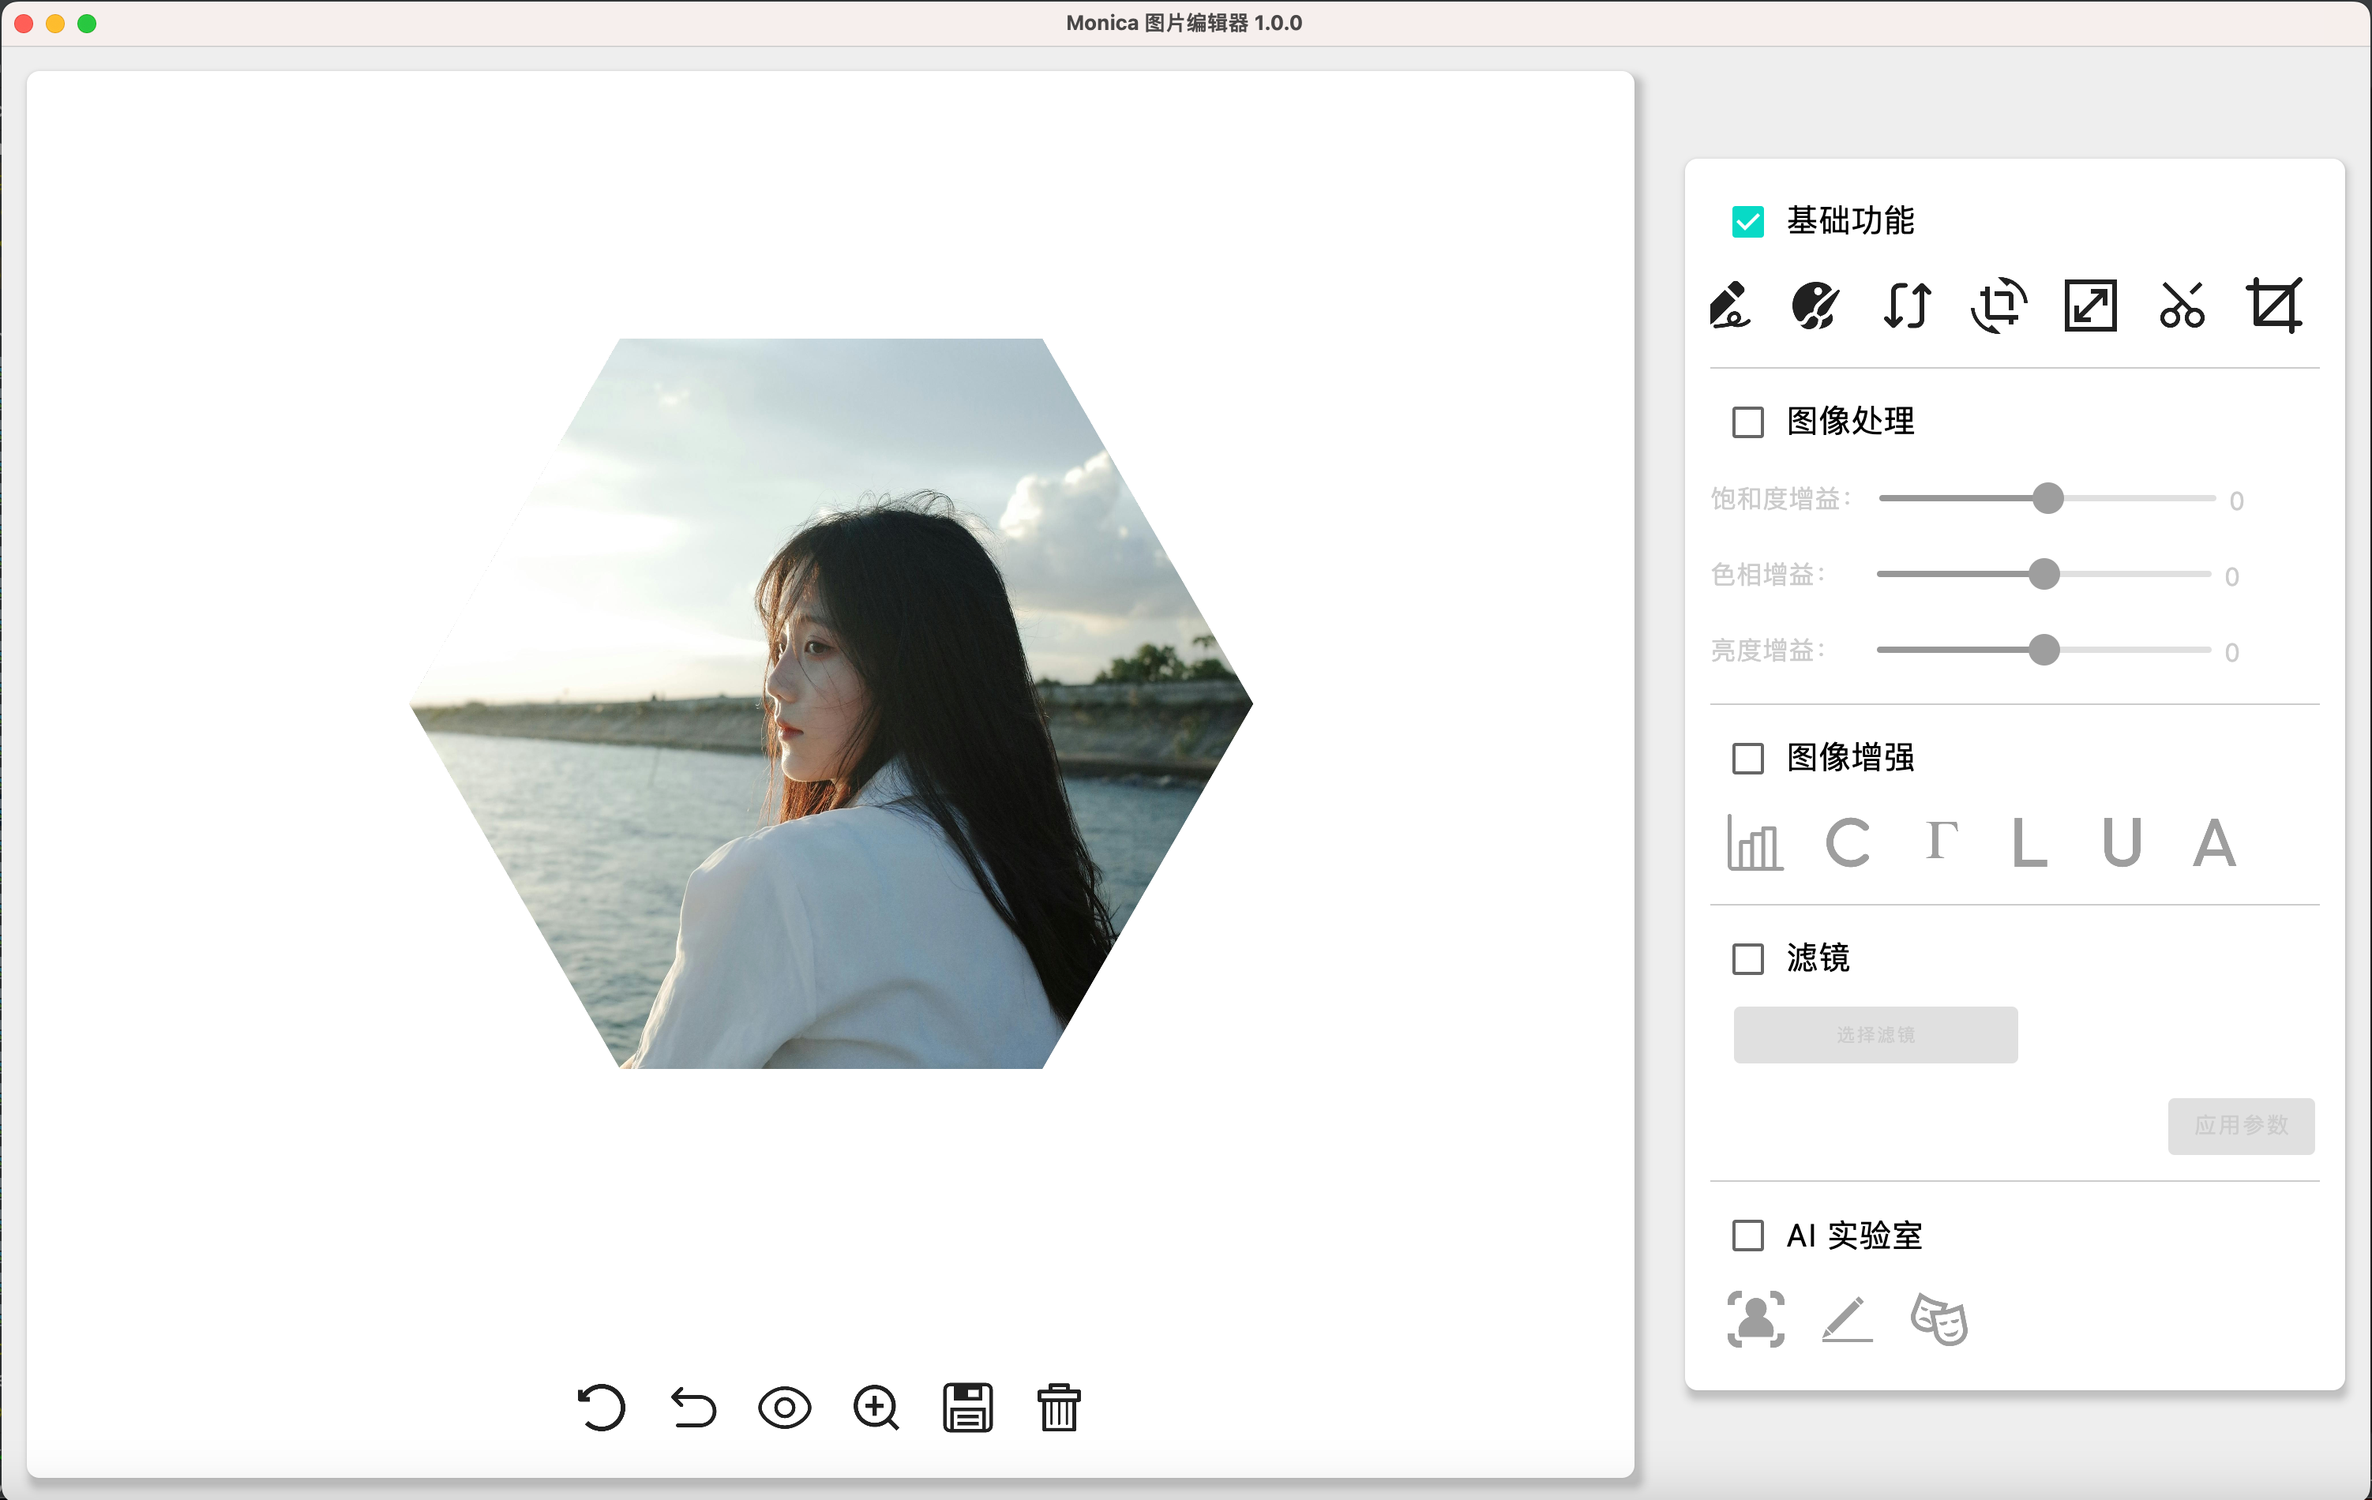
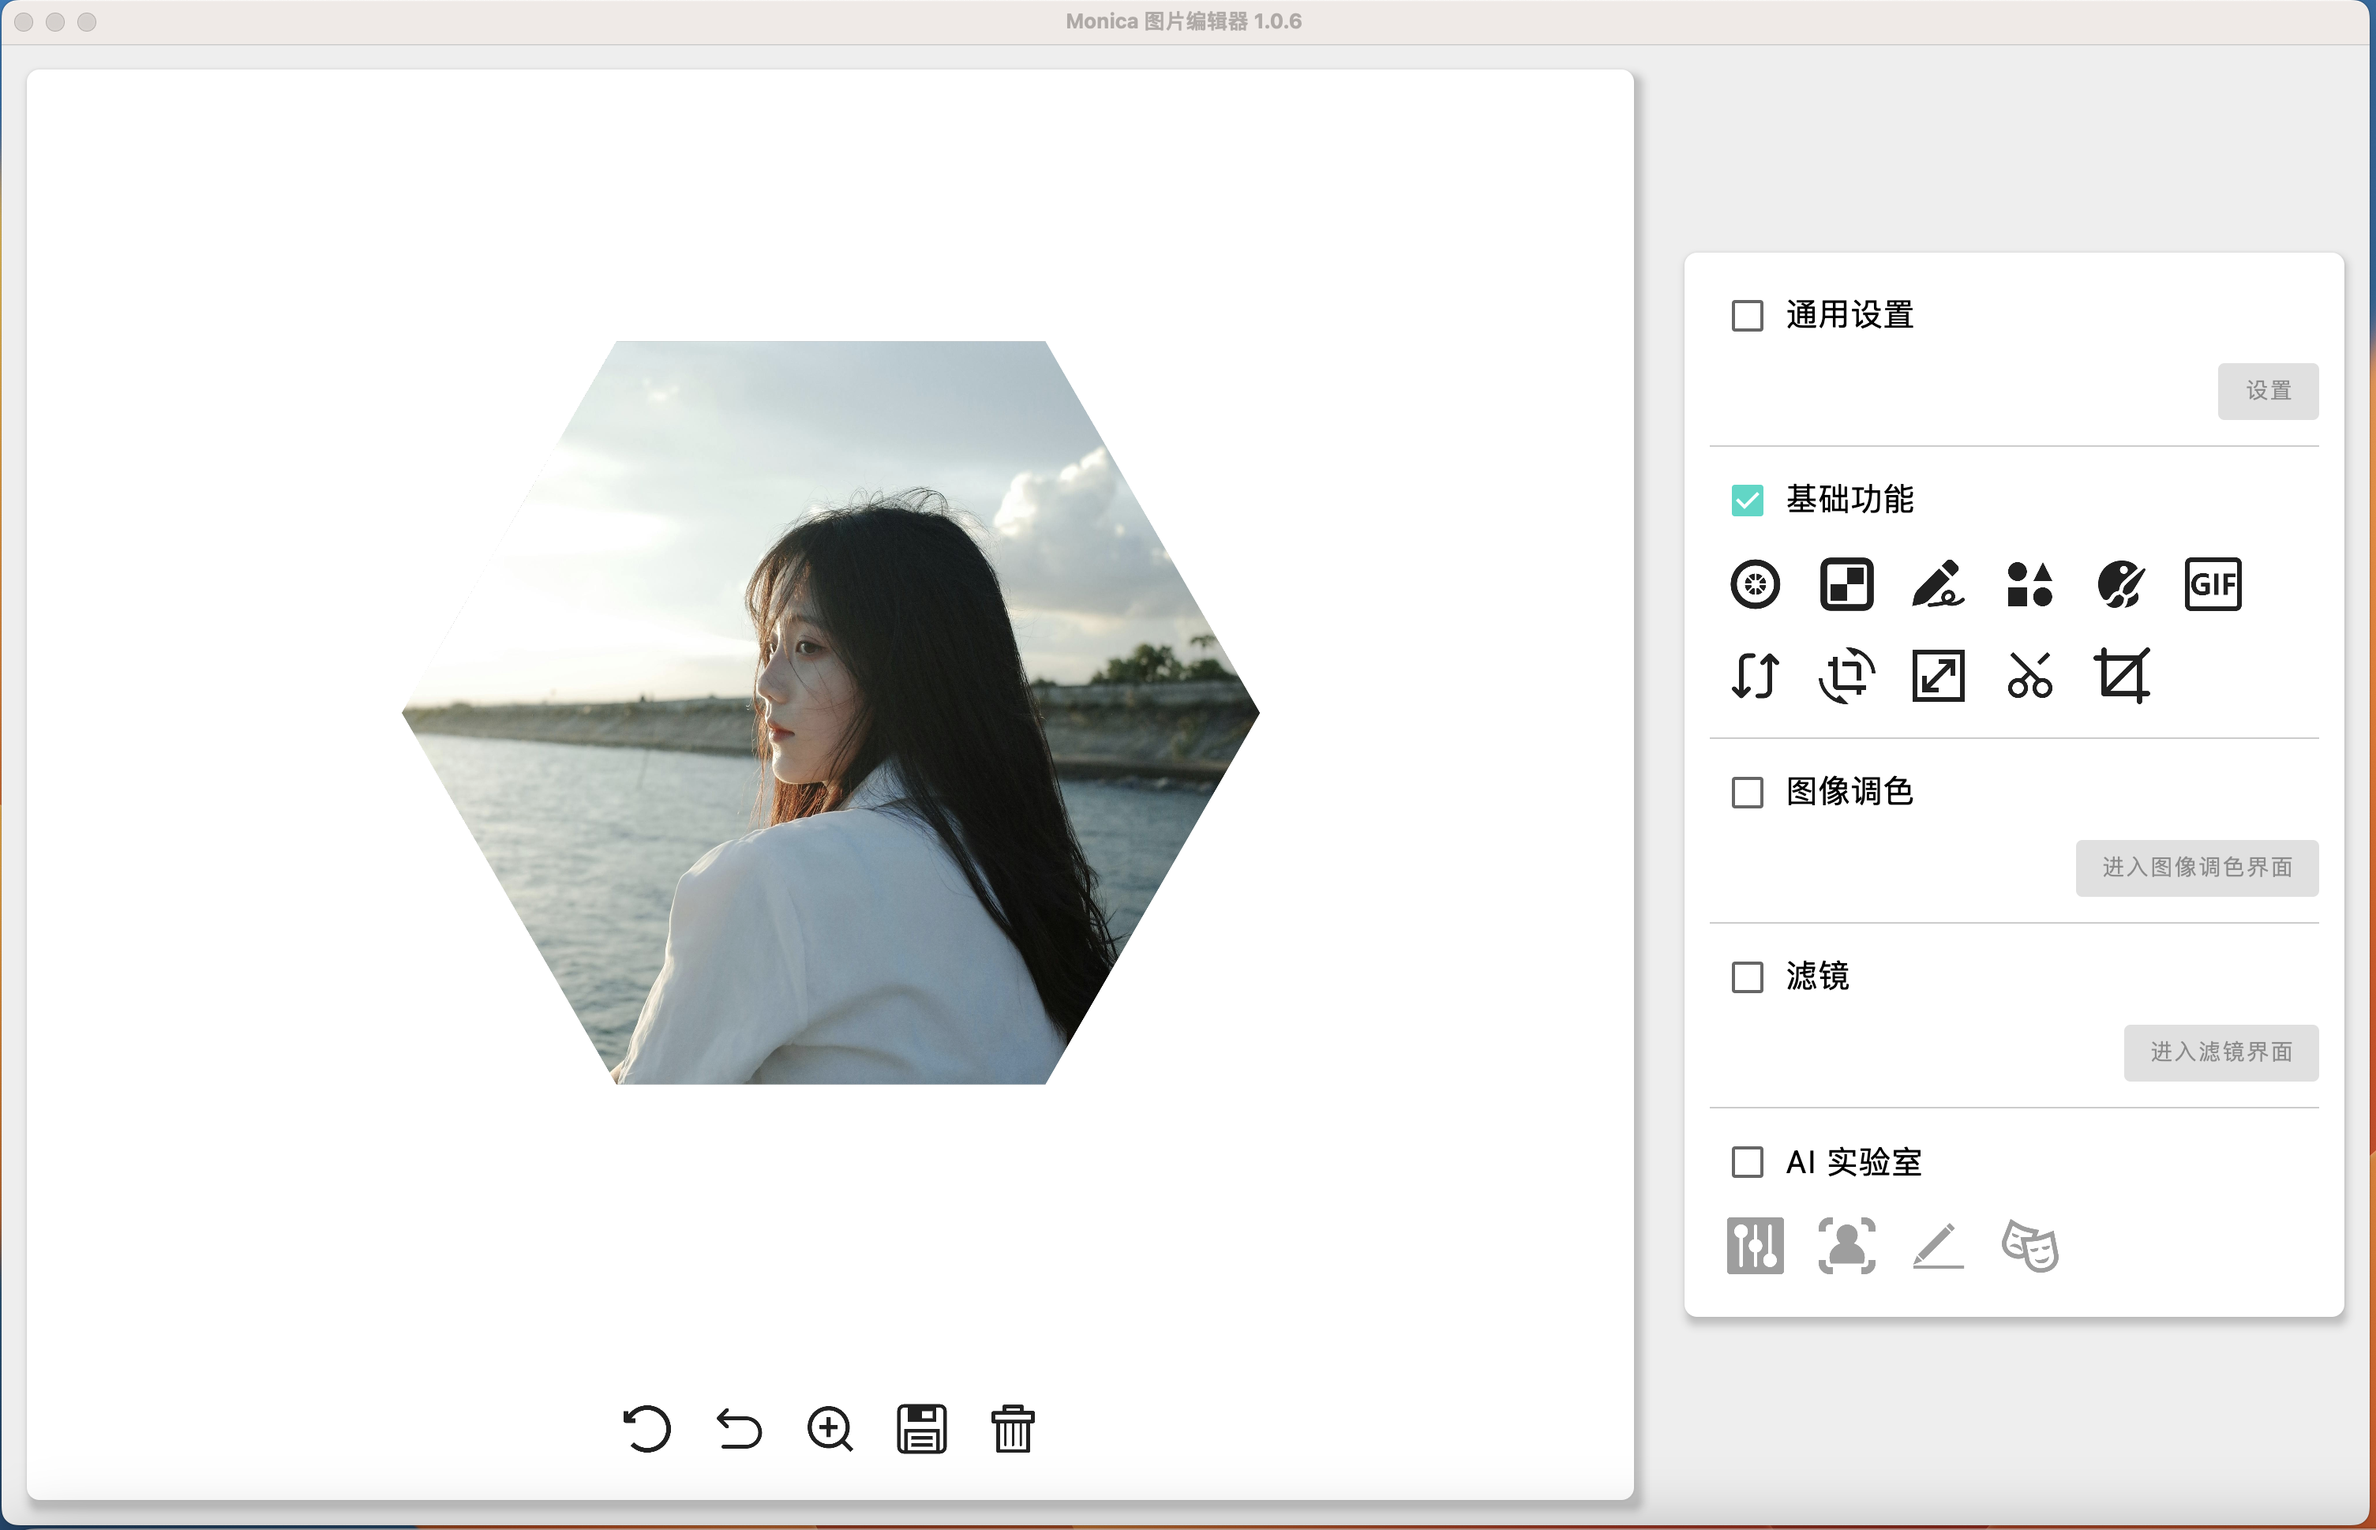
update

diff --git a/FUNCTION.md b/FUNCTION.md
@@ -48,11 +48,11 @@ Monica 的很多按钮，都带有 tooltips ，例如这个涂鸦功能
 ![](images/2-10.png)
 
 
-## 2.3 图像调色
+## 2.3 图像绘制
 稍后更新
 
 
-## 2.4 图像增强
+## 2.4 图像调色
 稍后更新
 
 
